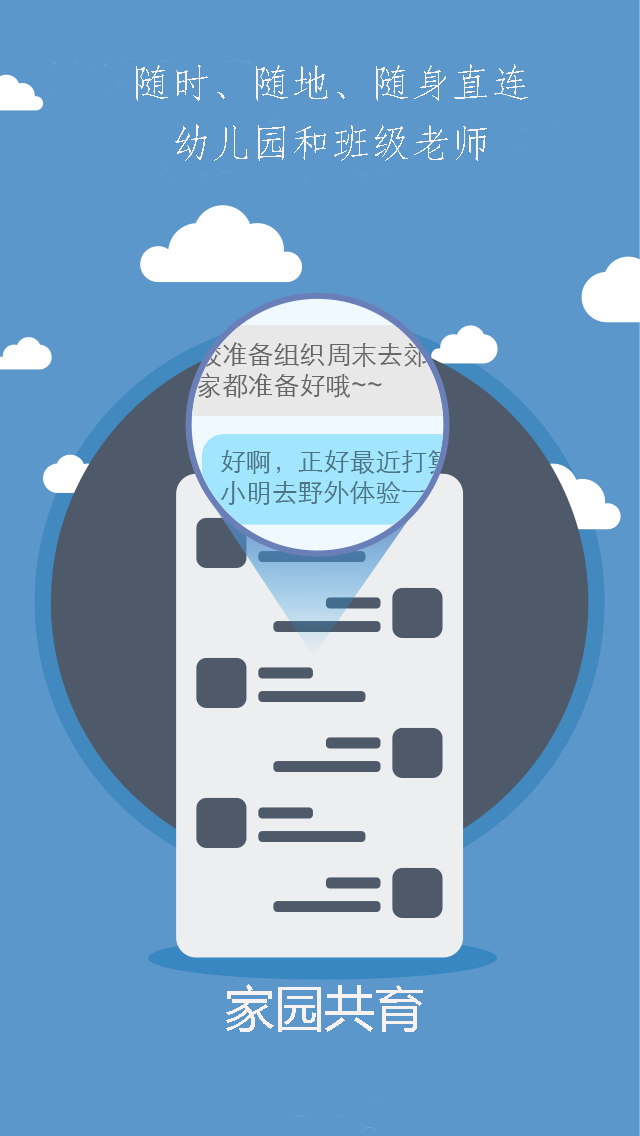
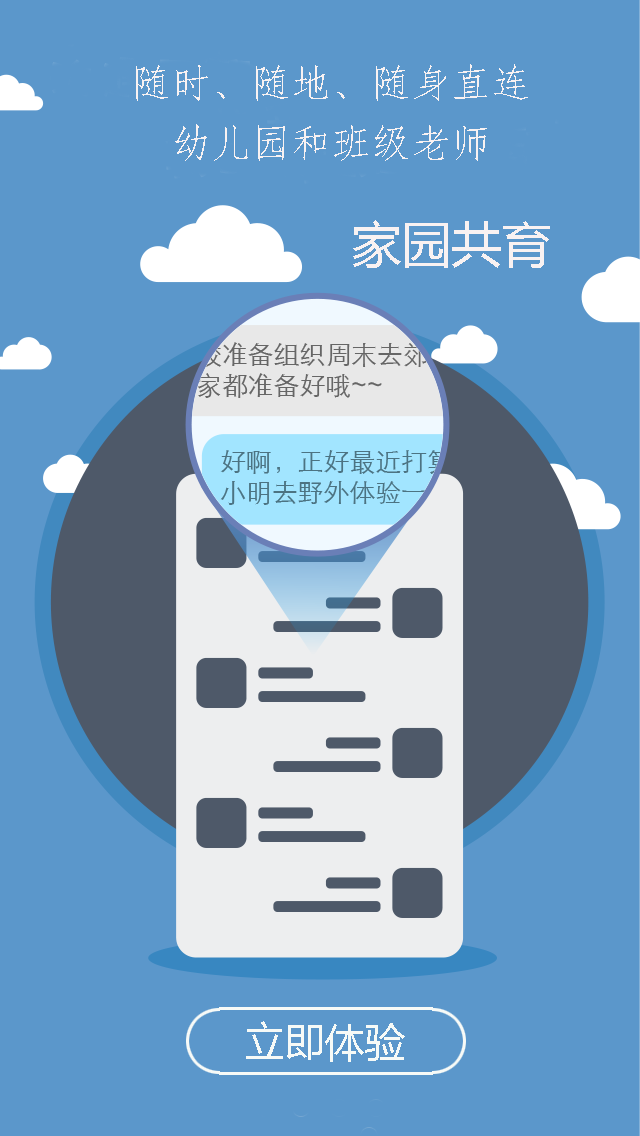
引导页

diff --git a/LuckyBaby/UI/MainView/firstLoginView/FirstLoginViewController.m b/LuckyBaby/UI/MainView/firstLoginView/FirstLoginViewController.m
@@ -59,7 +59,7 @@
     newView.delegate = self;
     newView.showsHorizontalScrollIndicator = NO;
     newView.showsVerticalScrollIndicator = NO;
-    newView.backgroundColor = [UIColor yellowColor];
+    newView.backgroundColor = [UIColor clearColor];
     newView.pagingEnabled = YES;
     [self.view addSubview:newView];
     for (int i = 0; i < 3; i++) {
@@ -67,29 +67,29 @@
         HJHMyImageView *imageView = [[HJHMyImageView alloc]initWithFrame:CGRectMake(i*ScreenWidth, ScreenOriginY, ScreenWidth, ScreenHeigth)];
        if(i==0)
        {
-         imageView.image = [UIImage imageNamed:@"111.png"];
+         imageView.image = [UIImage imageNamed:@"222.png"];
        }       else if(i == 1)
         {
-           imageView.image = [UIImage imageNamed:@"222.png"];
+           imageView.image = [UIImage imageNamed:@"333.png"];
         }else{
-            imageView.image = [UIImage imageNamed:@"333.png"];
+            imageView.image = [UIImage imageNamed:@"111.png"];
         }
         [newView addSubview:imageView];
         if(i == 2){
-            HJHMyButton *loginBtn = [[HJHMyButton alloc]initWithFrame:CGRectMake(ScreenWidth/2 - 50 , ScreenHeigth - 100, 100, 40)];
-            loginBtn.backgroundColor = [UIColor redColor];
-            [loginBtn setTitle:@"点击进入" forState:UIControlStateNormal];
+            HJHMyButton *loginBtn = [[HJHMyButton alloc]initWithFrame:CGRectMake(ScreenWidth/2 - 50 , ScreenHeigth - 70, 150, 40)];
+            loginBtn.backgroundColor = [UIColor clearColor];
+            [loginBtn setTitle:@"" forState:UIControlStateNormal];
             loginBtn.titleLabel.font = [UIFont systemFontOfSize:17];
             [loginBtn addTarget:self action:@selector(login) forControlEvents:UIControlEventTouchUpInside];
             [imageView addSubview:loginBtn];
         }
     }
     
-    self.view.backgroundColor = [UIColor blueColor];
+    self.view.backgroundColor = [UIColor clearColor];
 }
 
 -(void)setPageControl{
-    self.pageControl = [[UIPageControl alloc]initWithFrame:CGRectMake(ScreenWidth/2 - 30 , ScreenHeigth - 50, 60, 20)];
+    self.pageControl = [[UIPageControl alloc]initWithFrame:CGRectMake(ScreenWidth/2 -20 , ScreenHeigth - 30, 60, 20)];
     self.pageControl.backgroundColor = [UIColor clearColor];
     self.pageControl.numberOfPages = 3;
     self.pageControl.currentPage = 0;

diff --git a/LuckyBaby/AppDelegate.m b/LuckyBaby/AppDelegate.m
@@ -36,7 +36,7 @@
     
     self.window = [[UIWindow alloc] initWithFrame:[[UIScreen mainScreen] bounds]];
     // Override point for customization after application launch.
-    self.window.backgroundColor = [UIColor whiteColor];
+    self.window.backgroundColor = [UIColor clearColor];
     self.rootViewController = [[RootViewController alloc] init];
     self.fistViewController = [[FirstLoginViewController alloc] init];
     self.window.rootViewController = self.fistViewController;
